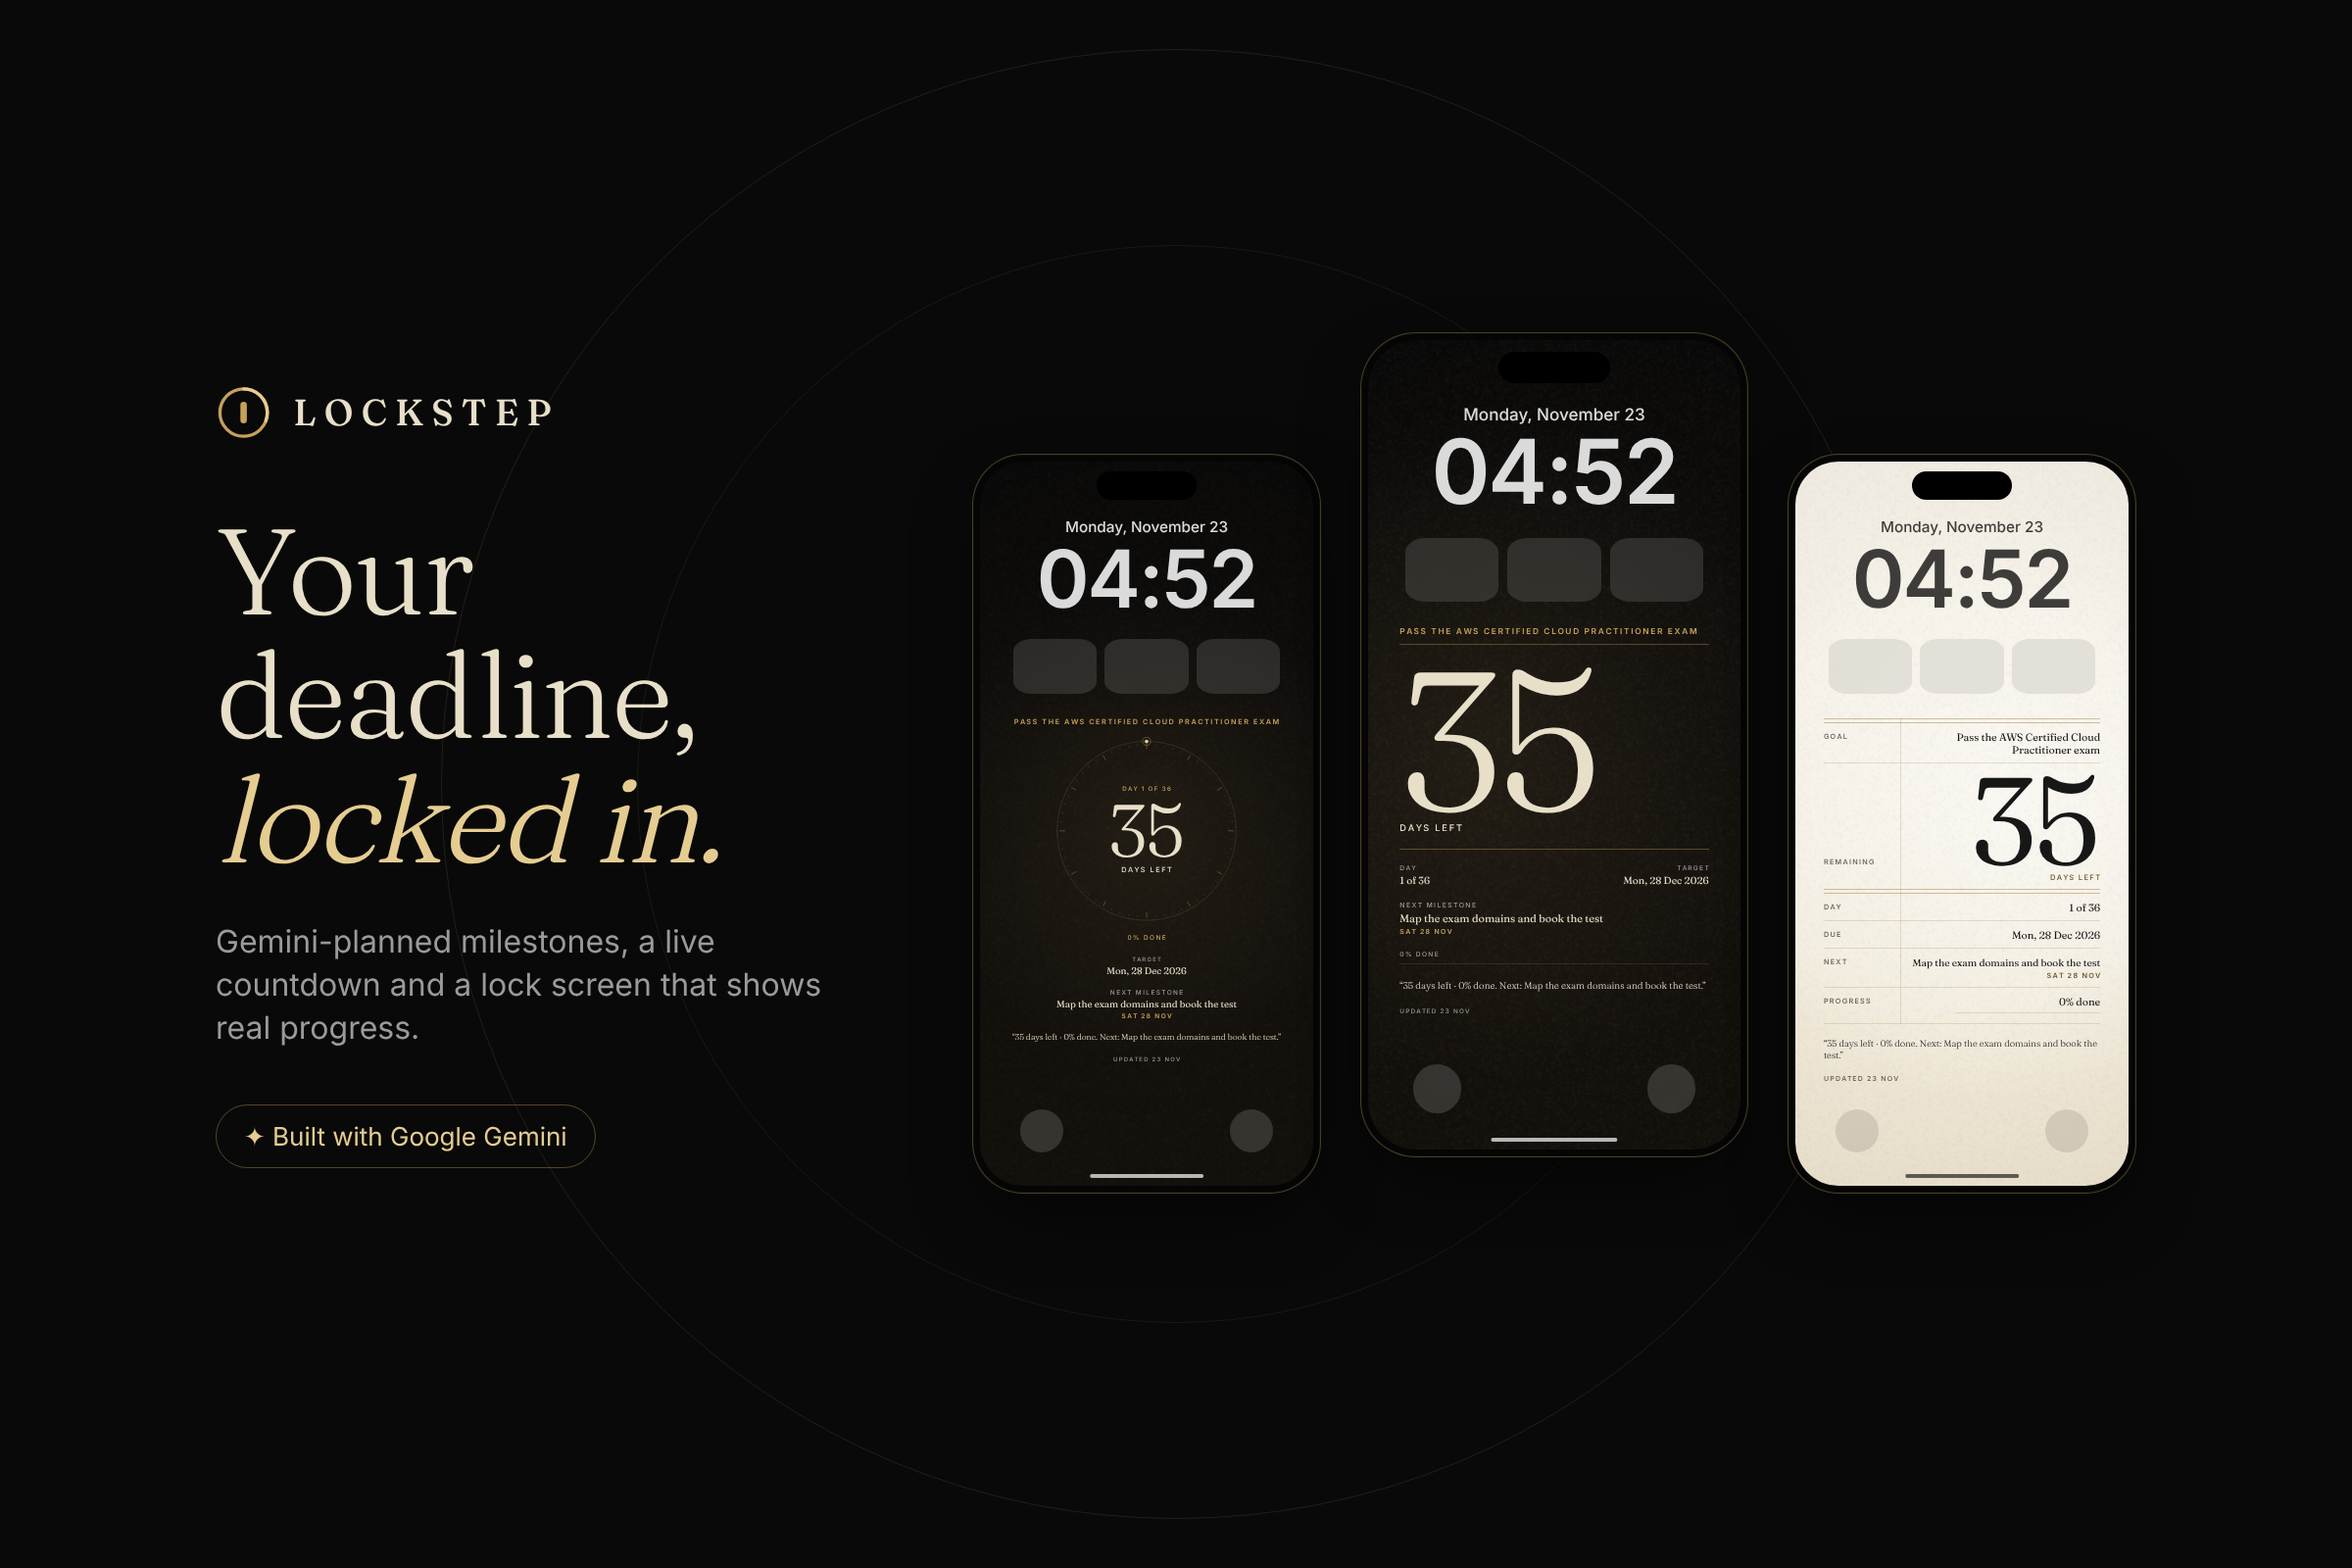
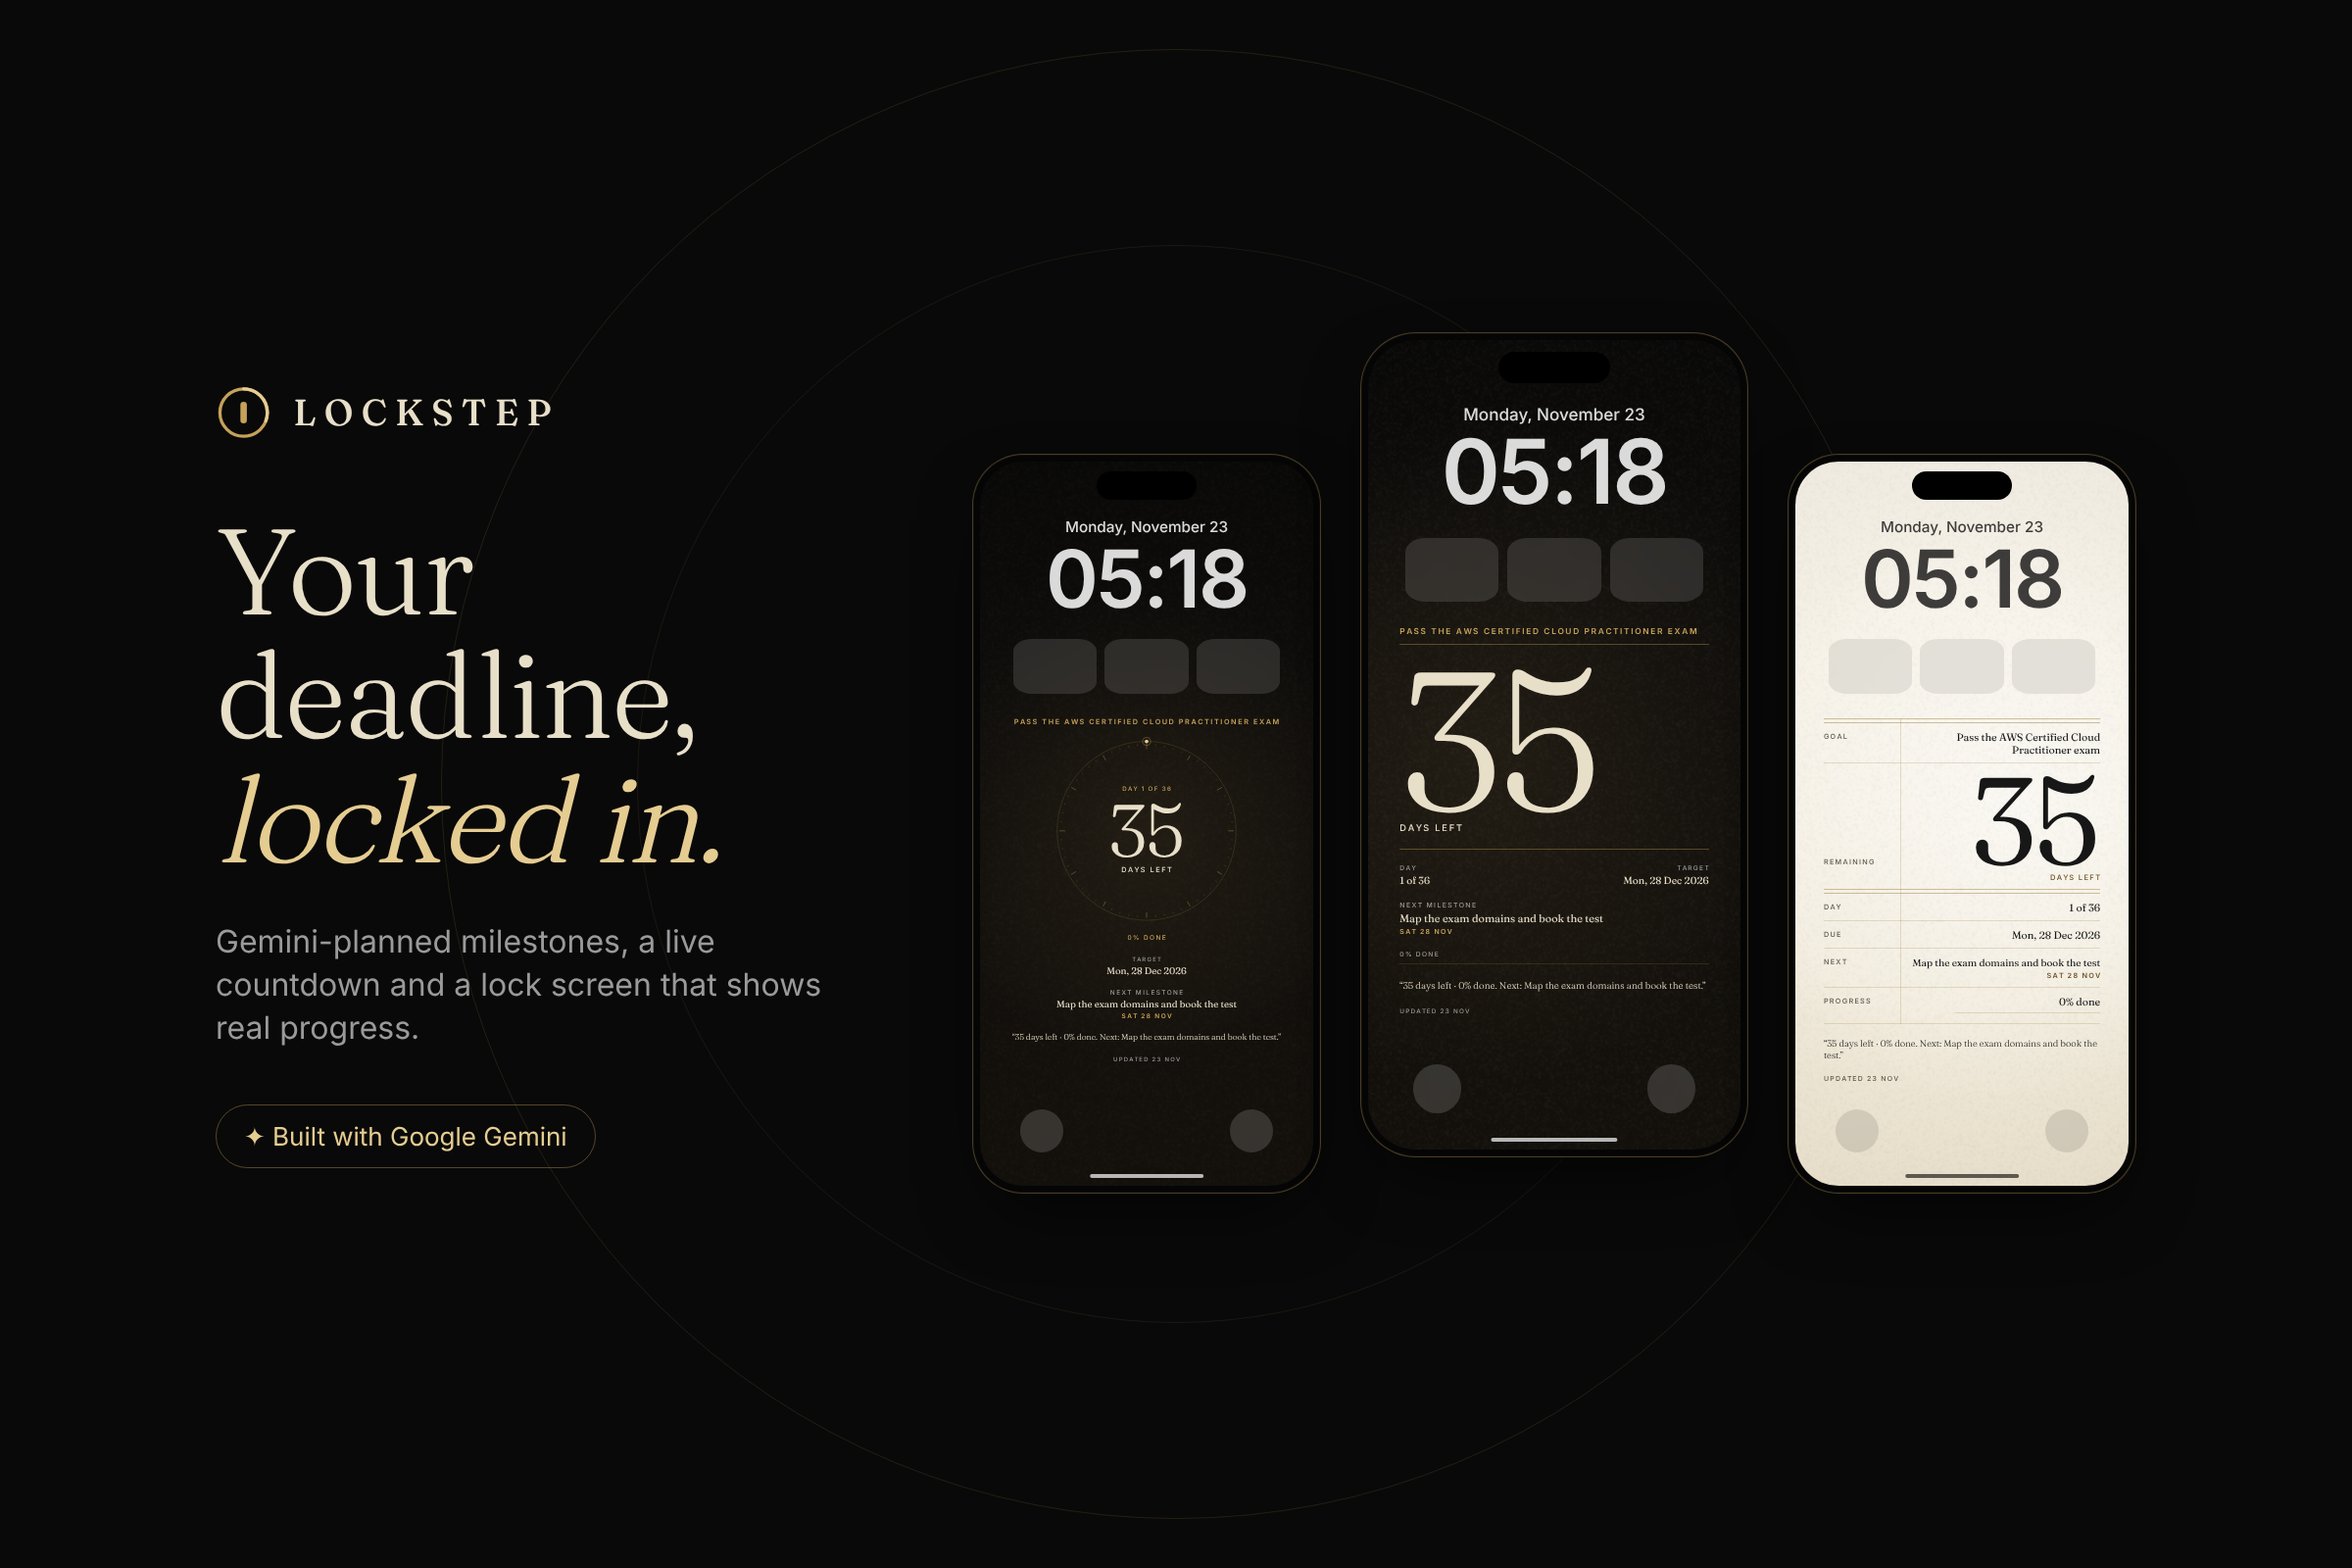
Regenerated submission assets after review fixes; progress log

Changed region(s): [[0.5938, 0.2812, 0.7188, 0.3438], [0.7812, 0.3438, 0.875, 0.4062], [0.4375, 0.3438, 0.5312, 0.4062]]

diff --git a/lockstep/docs/PROGRESS.md b/lockstep/docs/PROGRESS.md
@@ -4,7 +4,7 @@
 **Project root:** `lockstep/` inside the `RR_Expert` repo · branch `ccr-d3fe6a20-92epng` (see DECISIONS.md).
 
 ## Current phase
-**P9 (bug sweep).** Tiers 1, 2 and 3 are built and tested. Deploy is **BLOCKED** by the environment (no Vercel/Firebase/Supabase access, no Gemini key); everything is ready for the developer (`docs/SETUP.md`). Last update: 05:05 UTC.
+**P9 (bug sweep + polish).** Tiers 1, 2 and 3 are built and tested. An independent code review found 15 defects (2 high); **all are fixed and verified**. Deploy is **BLOCKED** by the environment (no Vercel/Firebase/Supabase access, no Gemini key); everything is ready for the developer (`docs/SETUP.md`). Last update: 05:55 UTC.
 
 ## Environment facts (checked 03:23 UTC)
 - No `GEMINI_API_KEY` → AI is built and tested against MSW mocks **in tests only**; the live smoke test reports **SKIPPED**. The running app shows an honest "Gemini isn't connected" state and offers the manual plan path.
@@ -35,7 +35,7 @@
 | **Accessibility sweep**: axe-core (WCAG 2.2 AA, serious/critical) on 12 screens, dark + light, at 360/390/430/1440 | `npx playwright test e2e/screens.spec.ts` | pass at all 4 widths · `docs/evidence/screens/` |
 | **Lighthouse mobile** (simulated slow 4G) | `npx lighthouse http://localhost:4173/<path>` | landing perf 93–97 / a11y 100 / BP 100; /new 95–98 / 100 / 100; /guide 96 / 100 / 100; empty /app on a cold profile 84–86 / 100 / 100 |
 | 3D hero (desktop, lazy, not precached) renders without errors | Playwright + SwiftShader screenshot | pass |
-| All unit + integration tests | `npx vitest run` | **238 passed, 3 skipped (live Gemini)** |
+| All unit + integration tests | `npx vitest run` | **248 passed, 3 skipped (live Gemini)** |
 | All E2E | `npm run build && npx playwright test --trace off` | **16/16 pass** |
 | **Submission assets v1** | `node scripts/submission.mjs` | lockscreen.png 1206×2622 ✓, lockscreen-android.png 1080×2400 ✓, cover.png 2400×1600 ✓, description 338 chars. Mode **manual-no-key**: the Gemini sentence is marked PENDING (see `submission/CHECKLIST.md`) |
 
@@ -45,7 +45,7 @@
 - **Tier 3:** ✅ optional Supabase auth + sync + RLS (PGlite-proven), 3D landing hero, AI backgrounds (only when an image model exists), achievements, in-app + local notifications. Web Push is not built: it needs VAPID keys and a push service, so it's documented only.
 
 ## Next step
-Act on the independent code review, then re-run every suite and regenerate the submission assets.
+Apply the visual design critique (in progress), re-run every suite, regenerate the submission assets, and write the final report.
 
 ## Known issues
 - No real-Gemini run has happened (no key). After adding a key: `npm run test:live` and `npm run submission -- --url <live-url>`.

diff --git a/lockstep/submission/CHECKLIST.md b/lockstep/submission/CHECKLIST.md
@@ -1,6 +1,6 @@
 # Handshake submission checklist
 
-Generated 2026-11-23T04:52:13.440Z by `npm run submission` · mode: **manual-no-key**
+Generated 2026-11-23T05:18:59.612Z by `npm run submission` · mode: **manual-no-key**
 
 | Form field | What to do | Status |
 |---|---|---|
